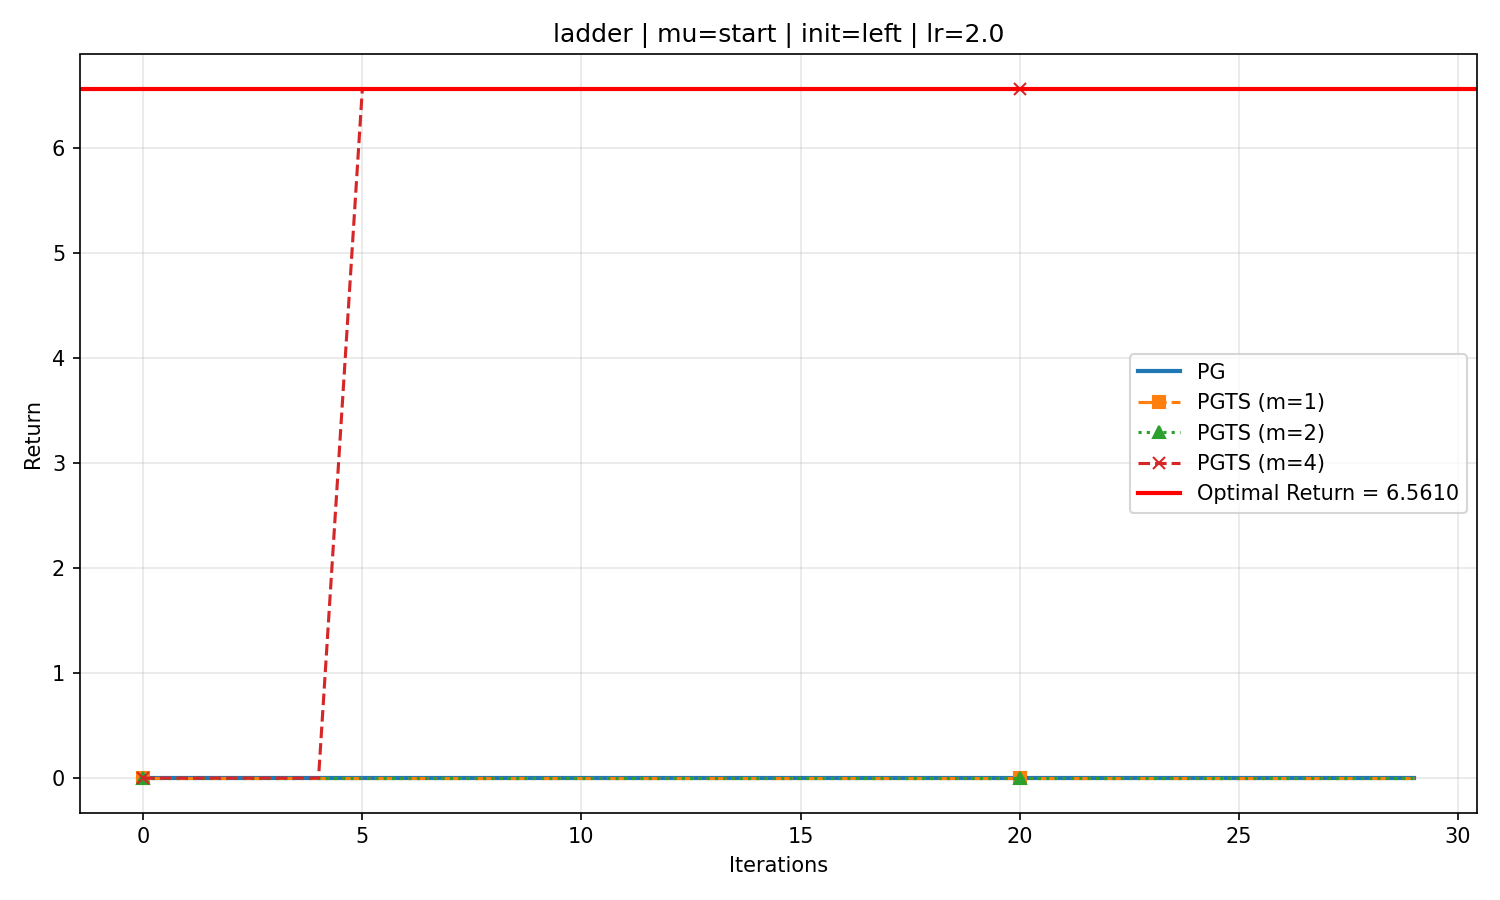
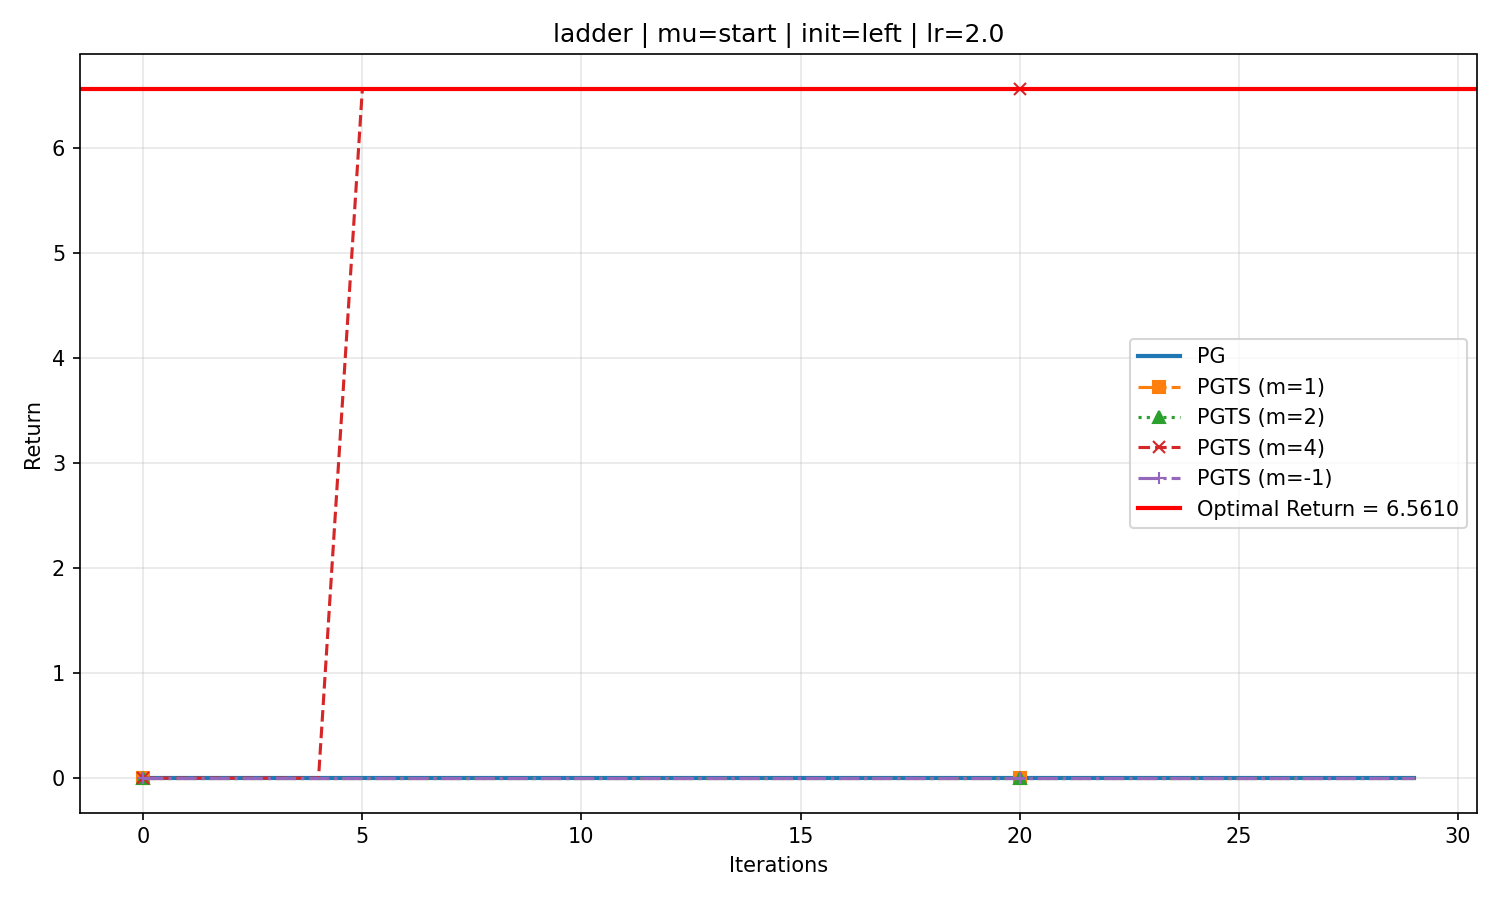
Make m adaptive in PGTS and run experiment on discrete mdp

Changed region(s): [[0.736, 0.3733, 0.9813, 0.5911]]

diff --git a/experiment.py b/experiment.py
@@ -38,11 +38,25 @@ def run_pg(mdp, steps, lr, init_type):
 def run_pgts(mdp, steps, lr, m, init_type):
     pi = init_policy(mdp.S, mdp.A, init_type)
     rewards = []
+    initial_m = m
+    adaptive_m = False
+    if initial_m == -1:
+        adaptive_m = True
+        print("Using adaptive m strategy")
+        adaptive_m_config = {
+            'max_m': 20,
+            'min_m': 1,
+            'window': 5,
+            'std_threshold': 2.0,
+            'growth_rate': 5
+        }
+        m = adaptive_m_config['min_m']  # Start with minimum m
+
 
     for _ in range(steps):
         v = mdp.value_function(pi)
         rewards.append(float(np.dot(mdp.mu, v)))
-        pi = pgts_update(mdp, pi, lr, m)
+        pi = pgts_update(mdp, pi, lr, m, rewards, adaptive_m=adaptive_m, episode=_, adaptive_m_config=adaptive_m_config if adaptive_m else None)
 
     return rewards
 
@@ -136,30 +150,31 @@ def plot_experiment(mdp, mdp_type, mu_type, init_type, lr, steps, m_values):
 
 if __name__ == "__main__":
     mdp_types = ['ladder', 'random', 'tightrope', 'grid']  
+    mdp_types = ['ladder']  
     
     config = {
         'ladder': {
             'start': {
                 0.05: {
                     'steps': 200,
-                    'm_values': [1, 2, 4, 6],
+                    'm_values': [1, 2, 4, 6, -1],
                     'init_type': ['left']
                 },
                 2.0: {
                     'steps': 30,
-                    'm_values': [1, 2, 4],
+                    'm_values': [1, 2, 4, -1],
                     'init_type': ['left']
                 }
             },
             'uniform': {
                 0.05: {
                     'steps': 300,
-                    'm_values': [1, 2, 4, 6],
+                    'm_values': [1, 2, 4, 6, -1],
                     'init_type': ['left']
                 },
                 2.0: {
                     'steps': 50,
-                    'm_values': [1, 2, 4],
+                    'm_values': [1, 2, 4, -1],
                     'init_type': ['left']
                 }
             }

diff --git a/pgts.py b/pgts.py
@@ -1,5 +1,6 @@
 import numpy as np
 from utils import project_simplex
+from common.adaptive_m import get_adaptive_m
 
 def T_operator(mdp, Q):
     V = np.max(Q, axis=1)
@@ -11,7 +12,11 @@ def T_m(mdp, Q, m):
         Qm = T_operator(mdp, Qm)
     return Qm
 
-def pgts_update(mdp, pi, lr, m):
+def pgts_update(mdp, pi, lr, m, rewards, adaptive_m=False, episode=None, adaptive_m_config=None):
+    if adaptive_m:
+        m = get_adaptive_m(rewards, episode, current_m=m, max_m=adaptive_m_config['max_m'], min_m=adaptive_m_config['min_m'], window=adaptive_m_config['window'], std_threshold=adaptive_m_config['std_threshold'], growth_rate=adaptive_m_config['growth_rate'])
+        print (f"Episode {episode}: Using m = {m}")
+        
     Q = mdp.Q_function(pi)
     Qm = T_m(mdp, Q, m)
 

diff --git a/common/adaptive_m.py b/common/adaptive_m.py
@@ -1,0 +1,32 @@
+import numpy as np
+
+
+def get_adaptive_m(
+    rewards_history,
+    ep,
+    current_m=None,
+    max_m=20,
+    min_m=1,
+    window=20,
+    std_threshold=5.0,
+    growth_rate=10,
+    gamma = 0.7
+):
+    if len(rewards_history) < window:
+        return min_m
+
+    recent_rewards = rewards_history[-window:]
+    reward_std = np.std(recent_rewards)
+
+    if reward_std > std_threshold:
+        return max_m
+
+    m_schedule = min_m + ep // growth_rate
+    print(f"Episode {ep}: Reward std = {reward_std:.2f}, m_schedule = {m_schedule}")
+
+    if current_m is not None:
+        m_smooth = int(gamma * current_m + (1 - gamma) * m_schedule)
+    else:
+        m_smooth = m_schedule
+
+    return int(np.clip(m_smooth, min_m, max_m))

diff --git a/continuous/continuous_pgts.py b/continuous/continuous_pgts.py
@@ -30,6 +30,8 @@ def run_pgts(
     optimizer_v,
     episodes=200,
     gamma=0.99,
+    adaptive=False, 
+    max_m=20,
     m=4,
     entropy_coef=0.01
 ):
@@ -49,6 +51,8 @@ def run_pgts(
 
         values = value_net(states_t)
         values_detached = values.detach()
+
+        
 
         returns = compute_m_step_returns(
             rewards,
